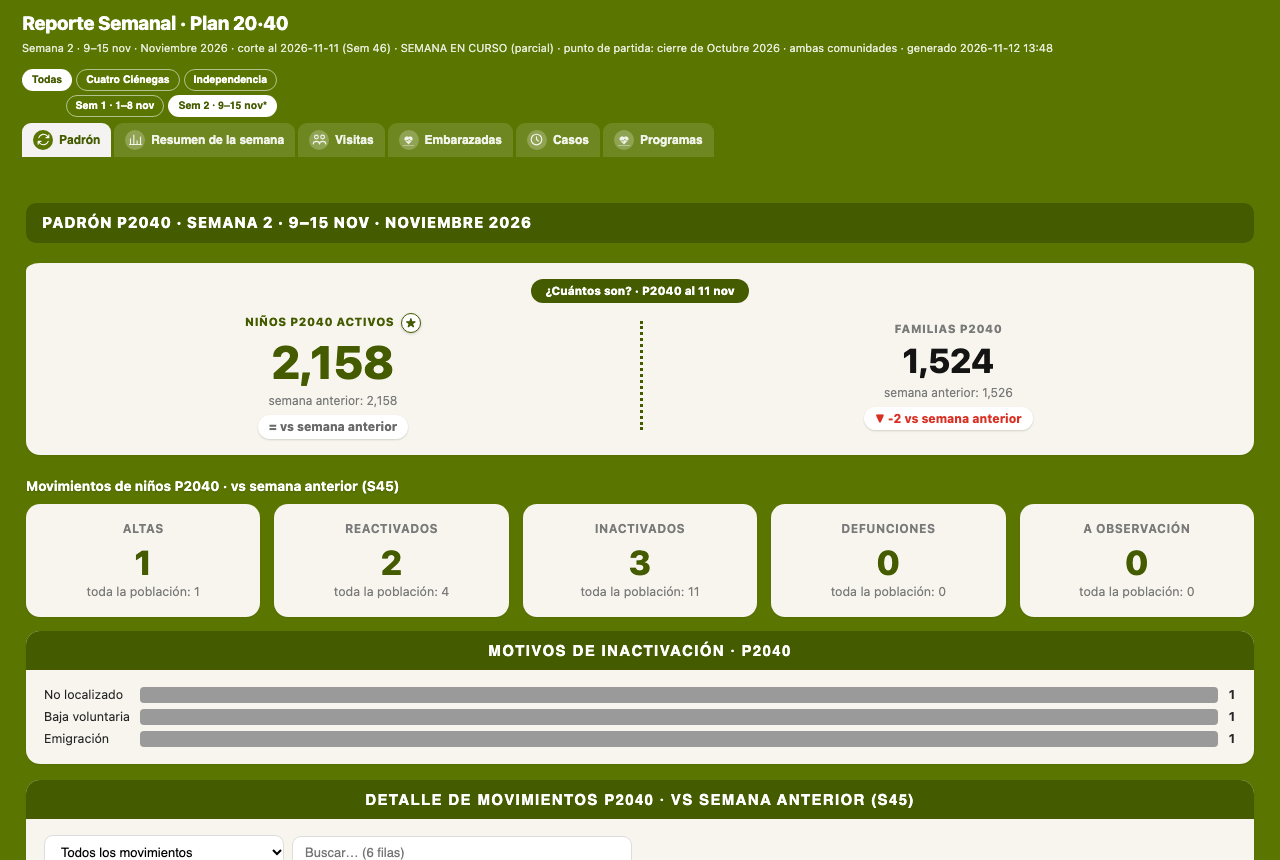
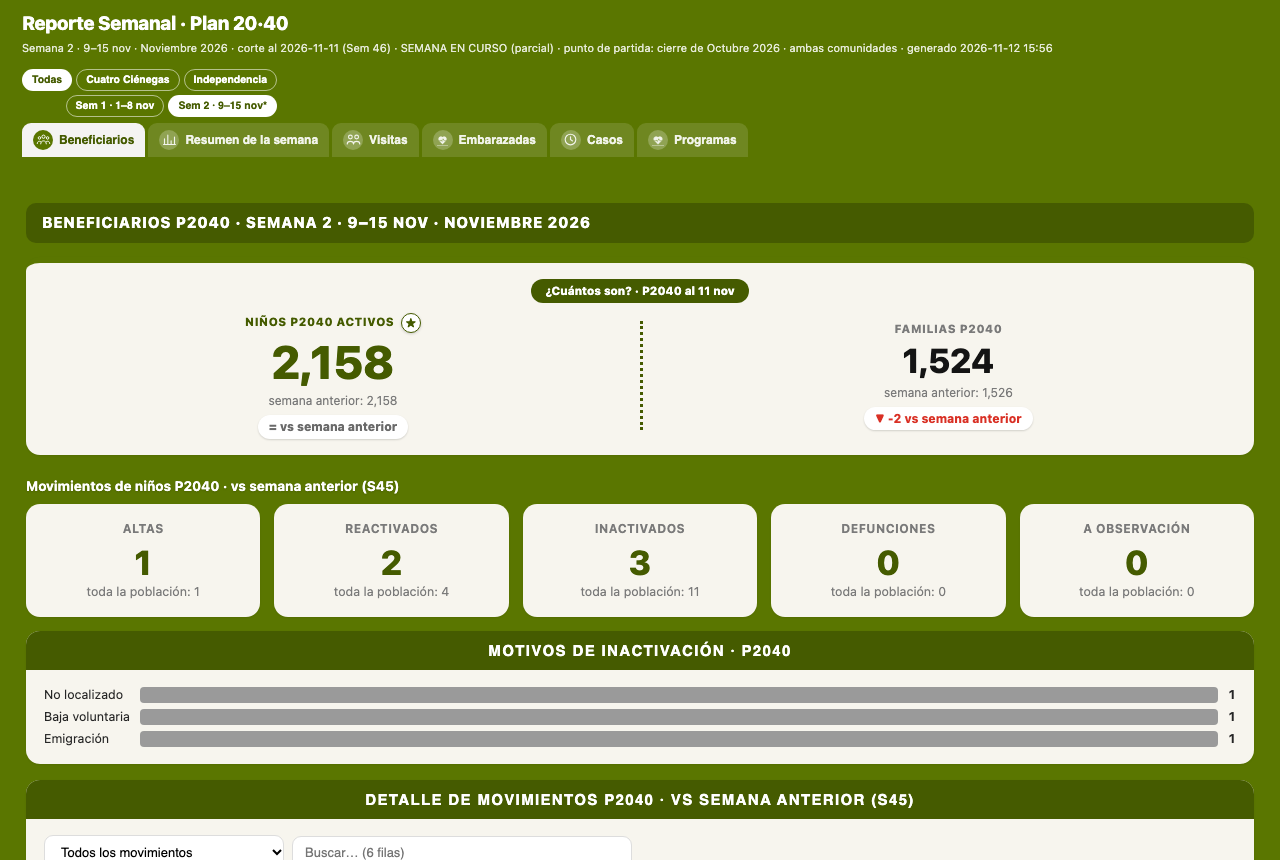
Actualizar miniatura del Reporte Semanal (Padrón → Beneficiarios)

Changed region(s): [[0.0312, 0.1209, 0.5938, 0.1814], [0.0312, 0.2419, 0.4688, 0.2721]]

diff --git a/fechas.js b/fechas.js
@@ -9,7 +9,7 @@ window.P2040_FECHAS = {
   "r35": "2026-11-12T13:47",
   "r36": "2026-11-12T13:47",
   "r37": "2026-08-26T16:37",
-  "r38": "2026-11-12T13:48",
+  "r38": "2026-11-12T15:56",
   "r40": "2026-11-12T13:47",
   "r41": "2026-11-12T13:48",
   "r42": "2026-11-12T13:51",
